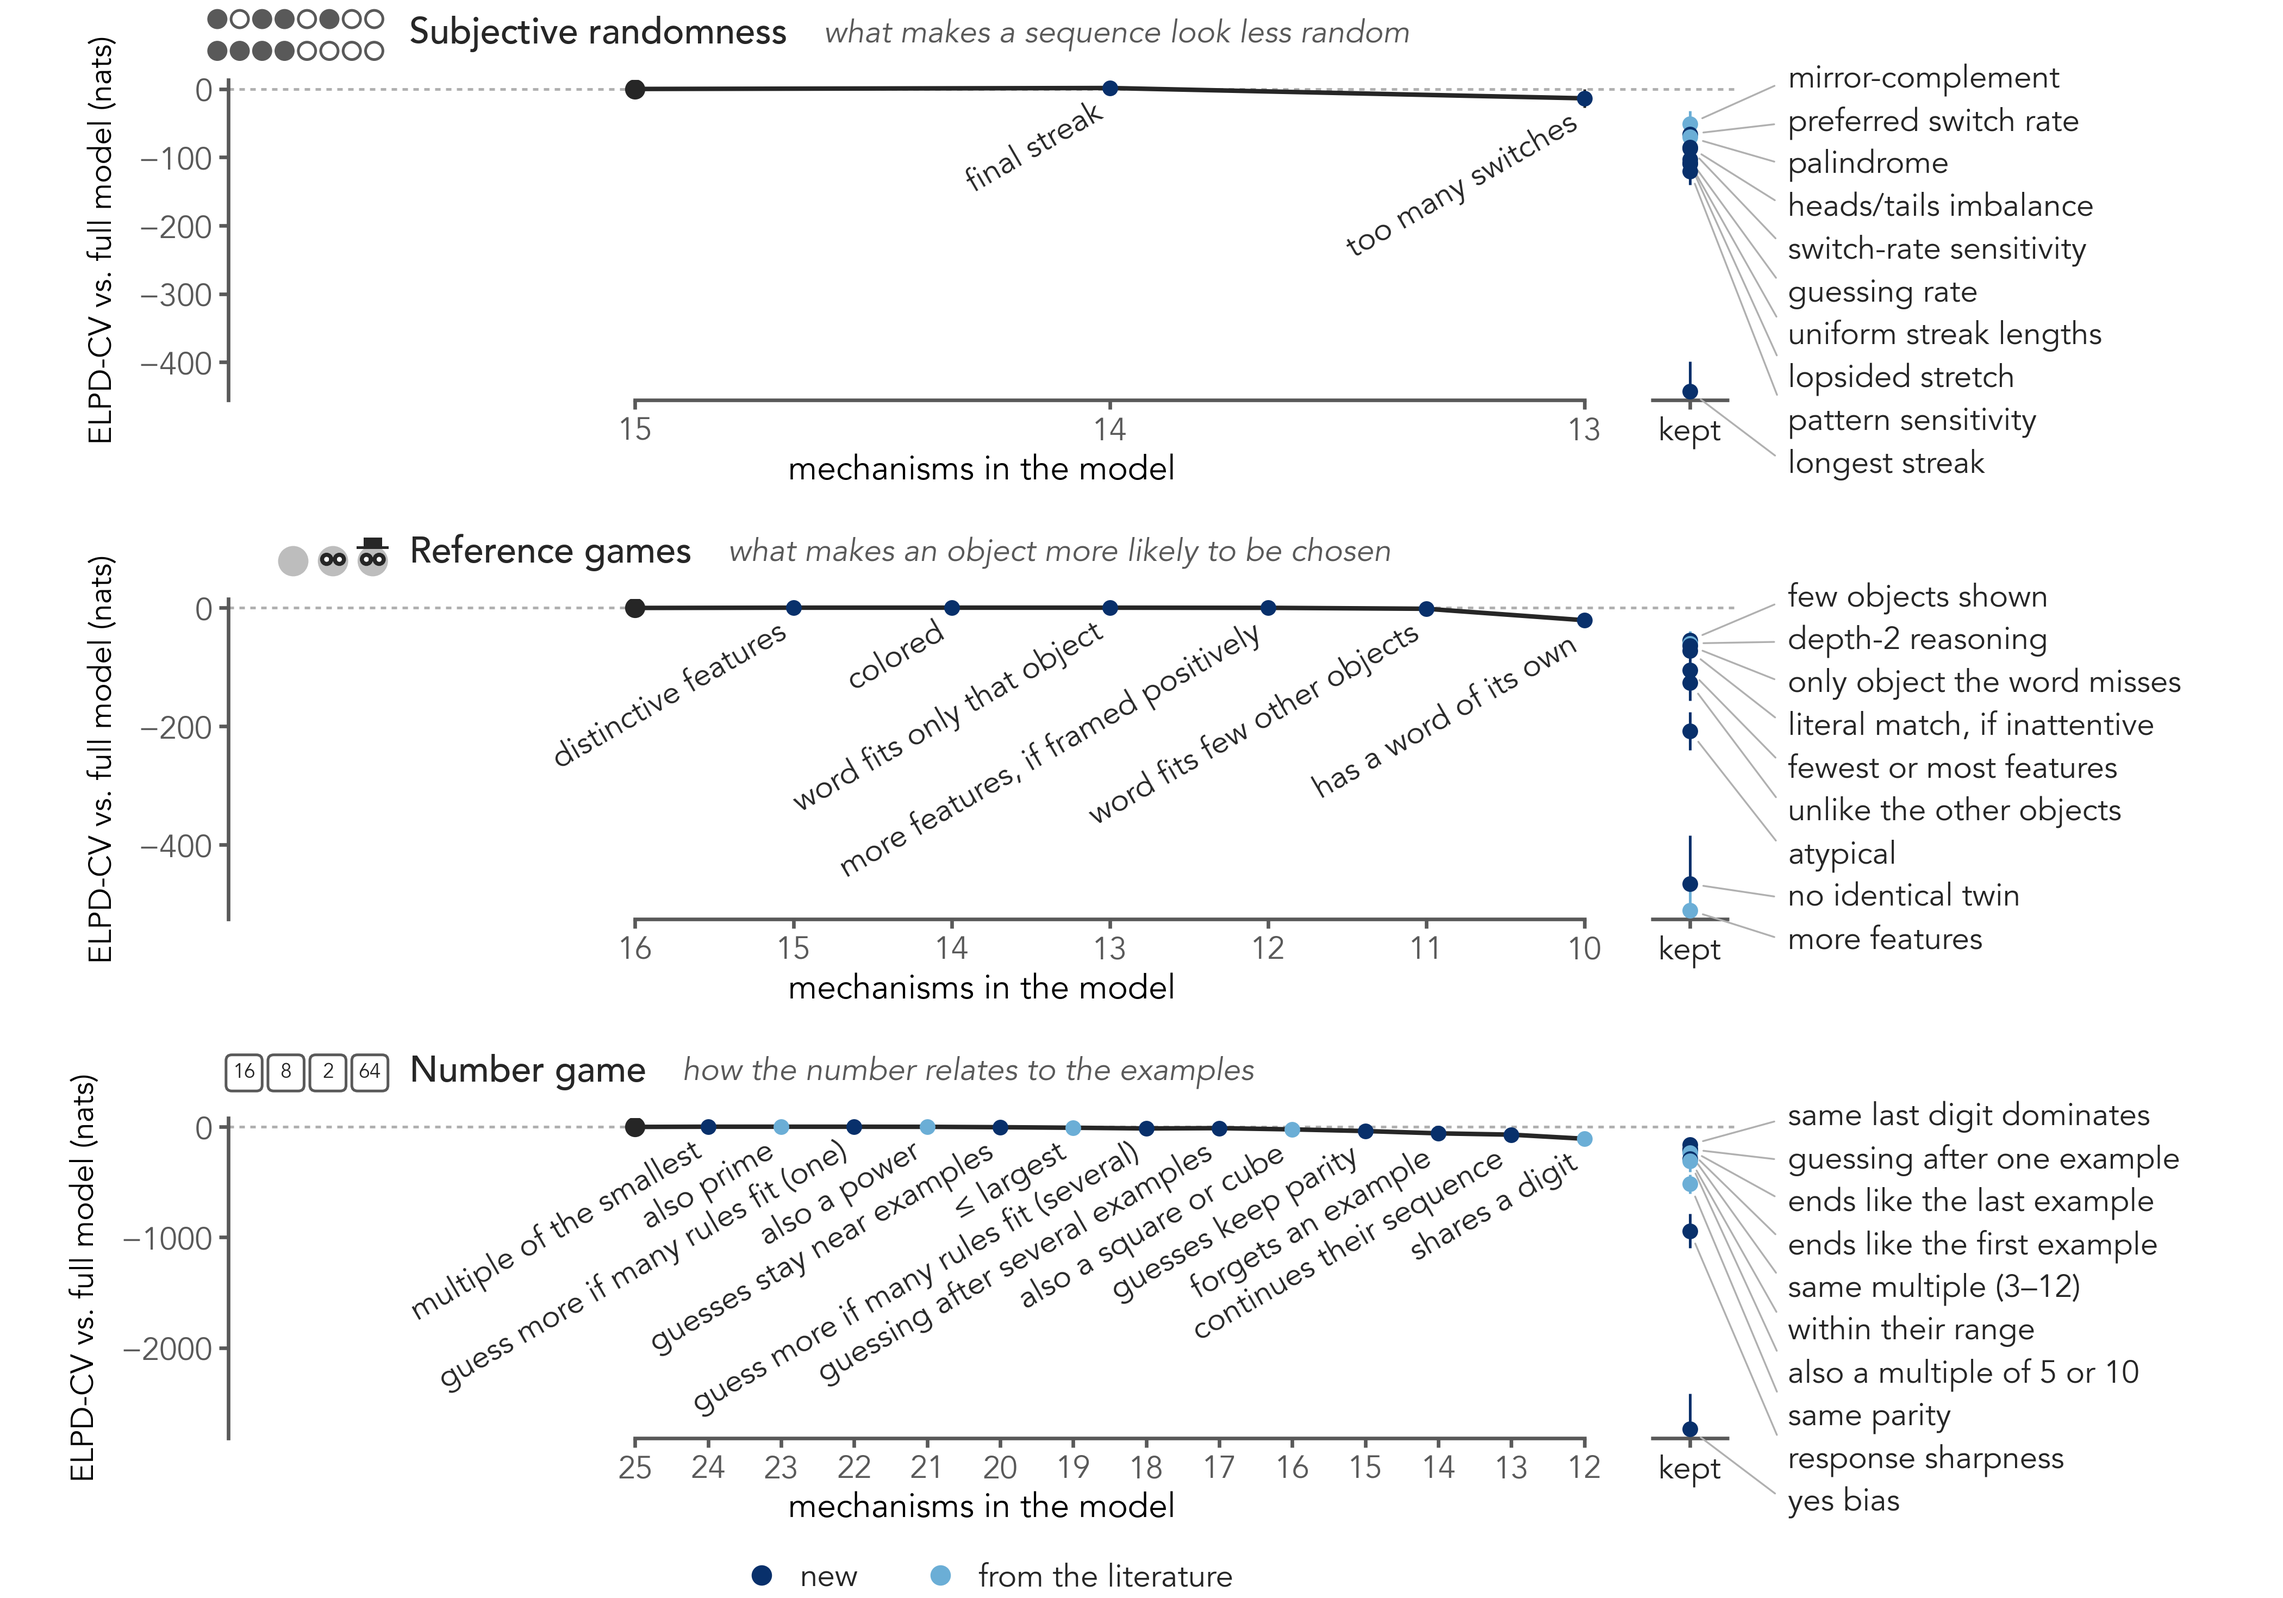
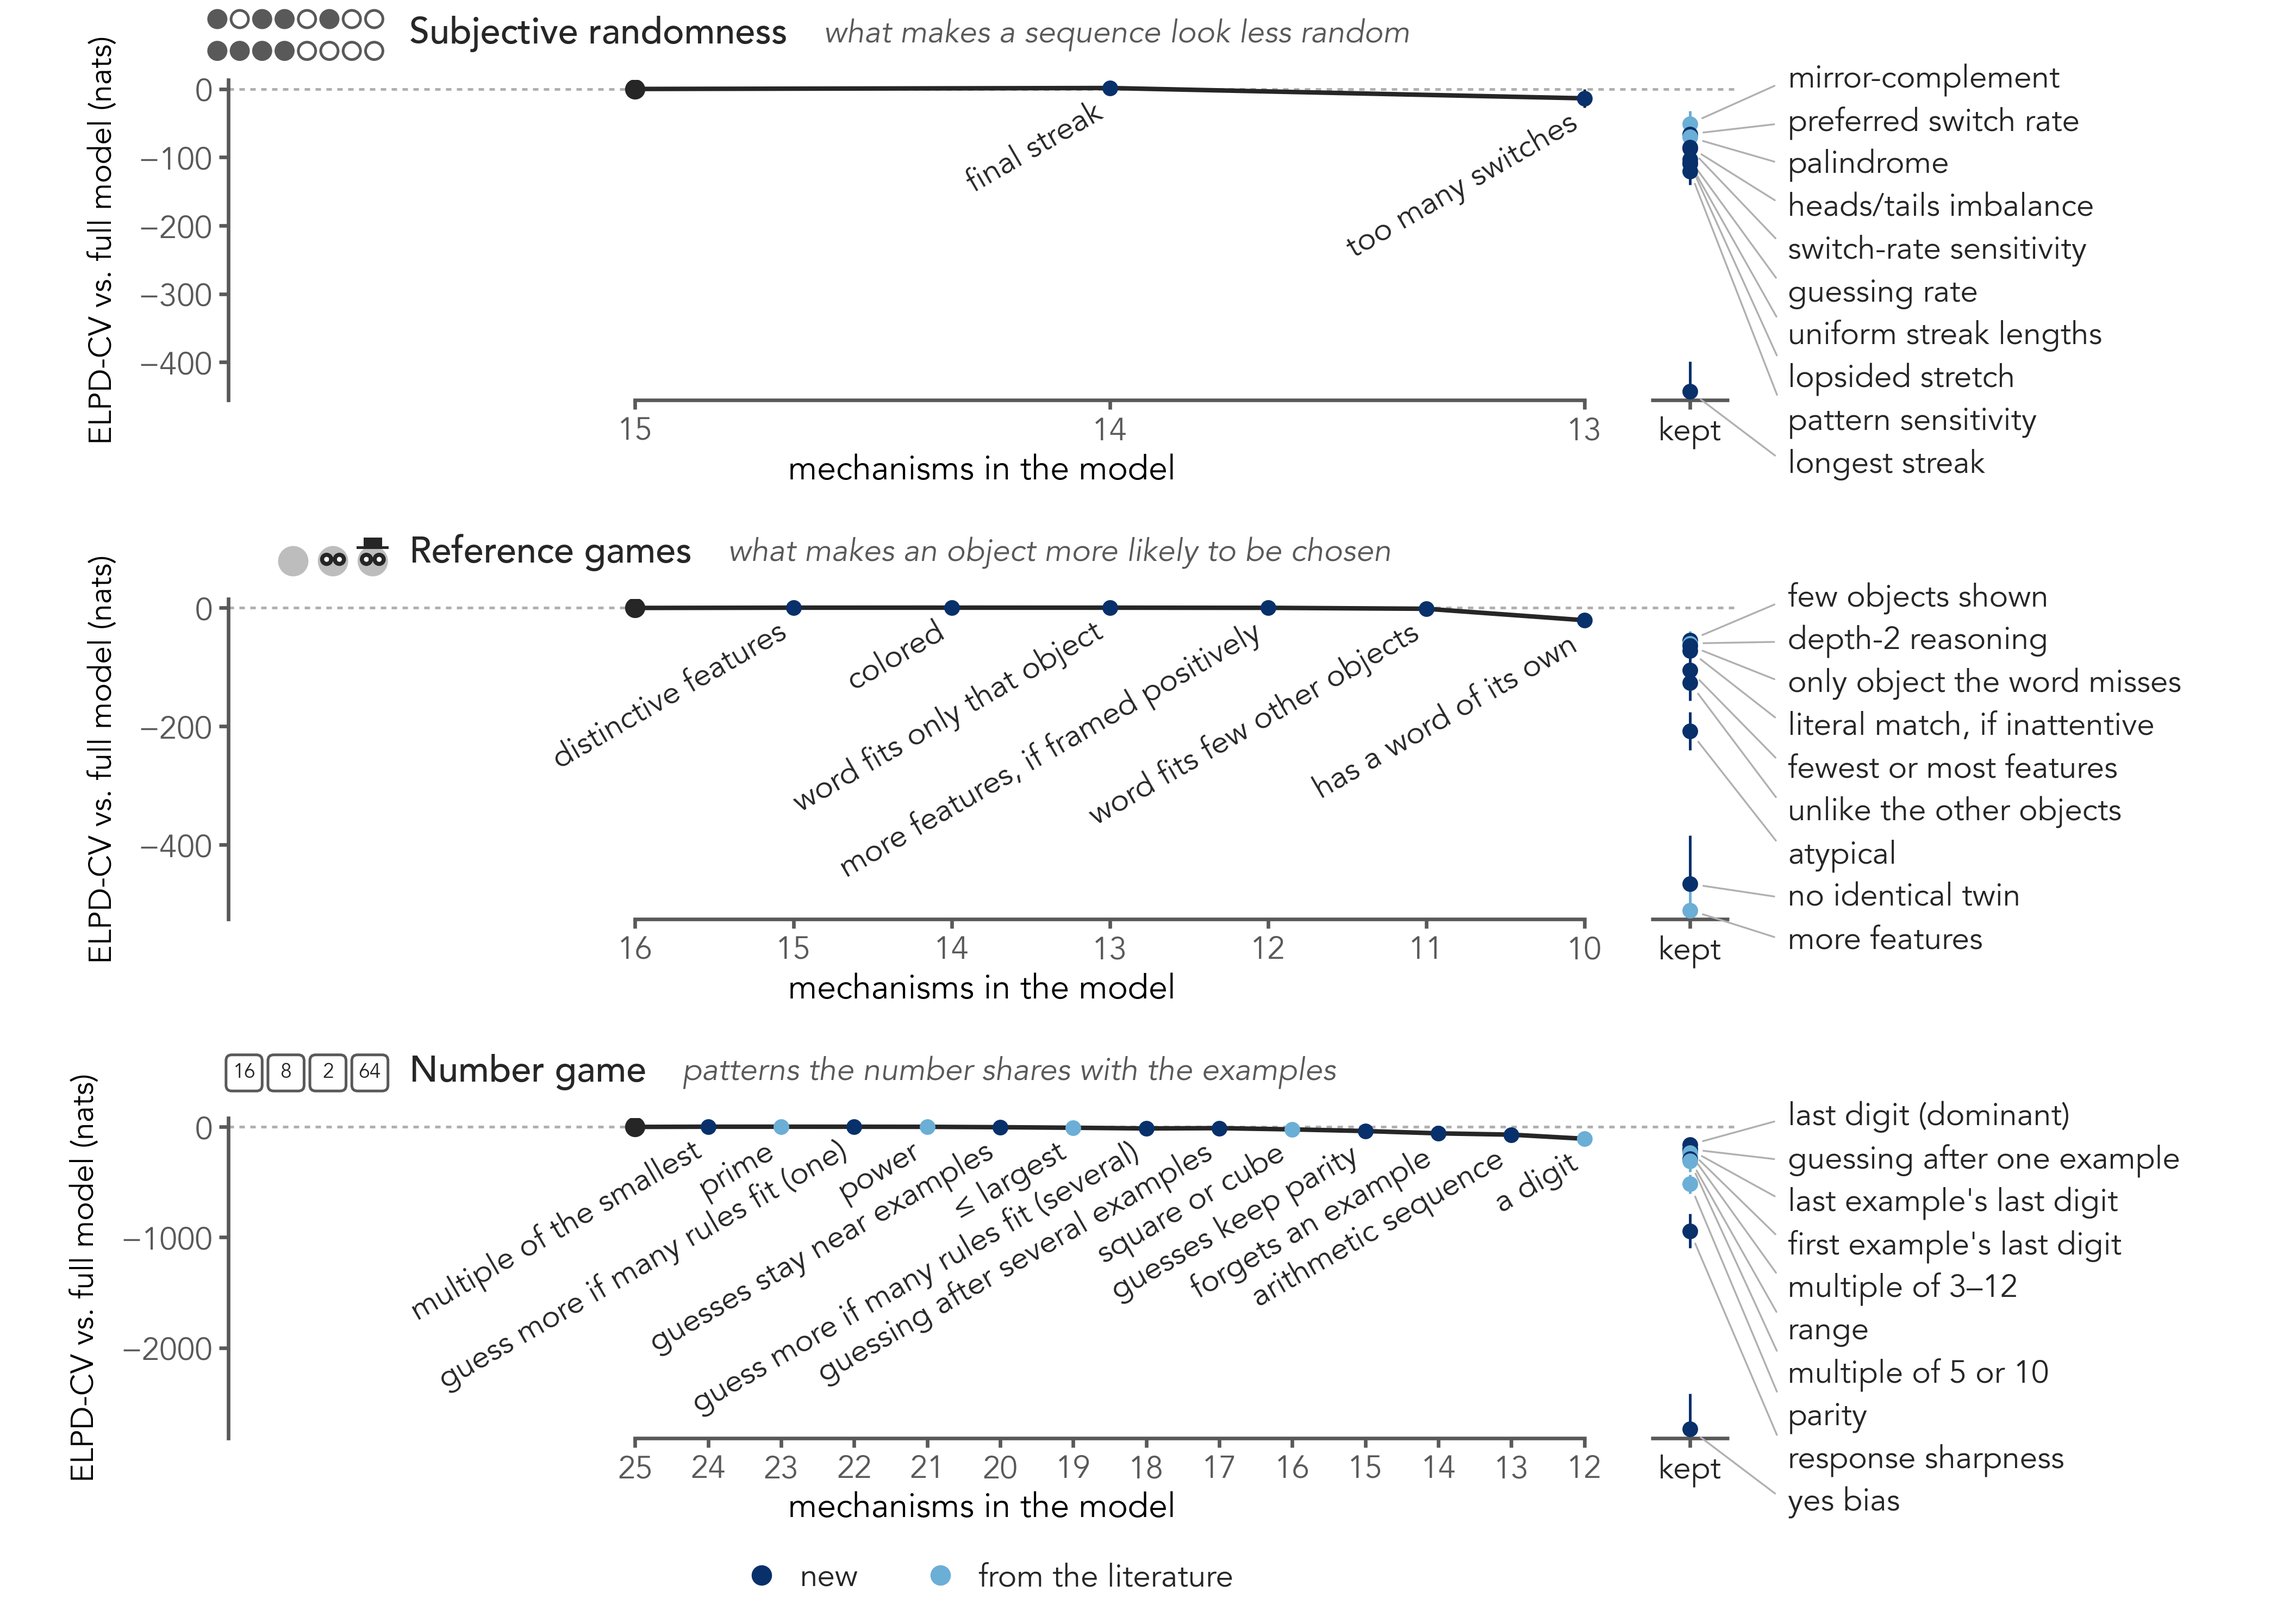
Figure 4 draft: number game back to 'patterns the number shares with the examples', its names the bare patterns (parity, last digit, prime, ...)

diff --git a/data/paper/work/fig4_draft/fig4_draft.py b/data/paper/work/fig4_draft/fig4_draft.py
@@ -28,7 +28,7 @@ WIDTH_IN, HEIGHT_IN, DPI = 7.0, 4.9, 600  # one row per domain; the saved figure
 # each panel's cues are named by what pushes its response this way (the fitted signs: mechanisms.yaml)
 DIRECTION = {"subjective_randomness": "what makes a sequence look less random",
              "rsa": "what makes an object more likely to be chosen",
-             "number_game": "how the number relates to the examples"}
+             "number_game": "patterns the number shares with the examples"}
 
 
 def sources():
